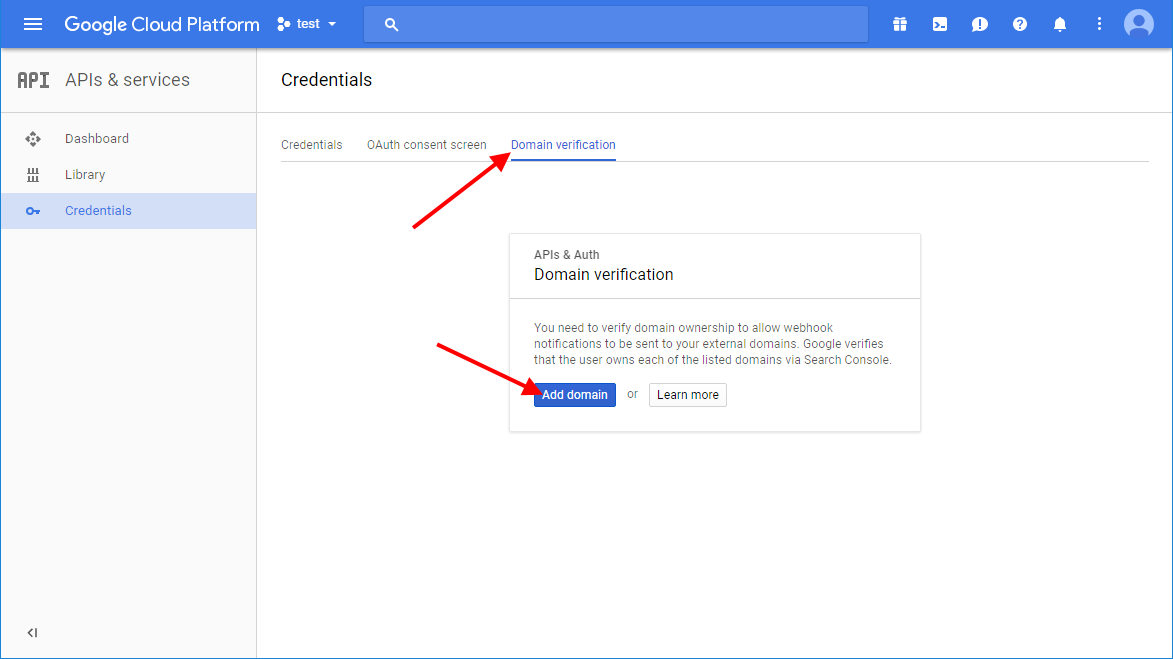
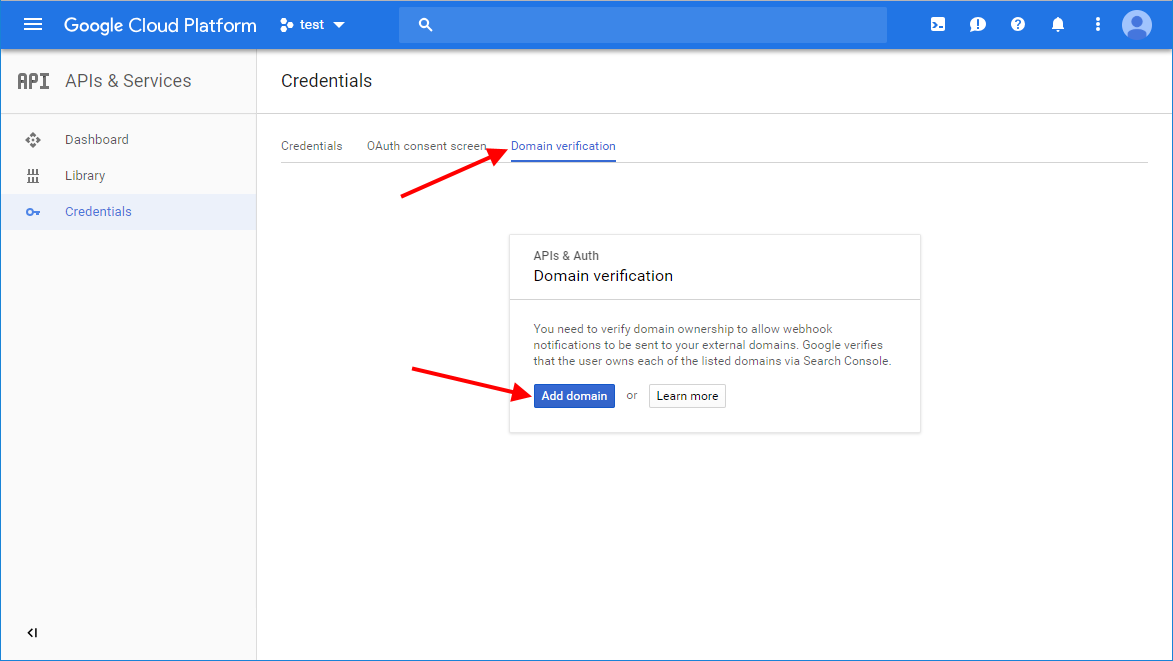
Update Docs with new screenshots of impCentral and Google UI

diff --git a/Examples/README.md b/Examples/README.md
@@ -31,7 +31,7 @@ This example publishes messages to the topic `"test_topic"`.
   - Message data in the form of an integer which starts at 1 and increases by 1 with every message published. It restarts from 1 when the example is restarted.
   - A message attribute, `"measureTime"`, which is the time in seconds since the epoch.
 
-![Publisher example](http://imgur.com/tggTPYg.png)
+![Publisher example](../png/12.png)
 
 ## PullSubscriber
 
@@ -49,7 +49,7 @@ This example receives messages from a pull subscription called `"test_pull_subsc
   - All of the message’s custom attributes
   - The standard `"publishTime"` attribute.
 
-![PullSubscriber example](http://imgur.com/WDQ9lGQ.png)
+![PullSubscriber example](../png/13.png)
 
 ## PushSubscriber
 
@@ -69,7 +69,7 @@ Additional setup is required before you can run this application. See the [Addit
   - all custom attributes of the message,
   - the standard *"publishTime"* attribute.
 
-![PushSubscriber example](http://imgur.com/HjXJrfz.png)
+![PushSubscriber example](../png/14.png)
 
 ## ProjectInfo
 
@@ -80,7 +80,7 @@ This example collects and prints information about topics and subscriptions. The
 - The configuration of every subscription
 - The IAM Policy of every subscription
 
-![ProjectInfo example](http://imgur.com/VDKgV7c.png)
+![ProjectInfo example](../png/15.png)
 
 ## Examples Setup
 
@@ -98,16 +98,17 @@ Before running an example application you need to set the configuration constant
 #### Google Cloud Account Configuration
 
 - Login at [Google Cloud Console](https://console.cloud.google.com) in your web browser.
-- If you have an existing project that you want to work with, skip this step, otherwise click the ‘Select a project’ link and click ‘+’ in the opened window:
-![Project create](http://imgur.com/2FbH9S6.png)
+- If you have an existing project that you want to work with, skip this step, otherwise click the ‘Select a project’ link and click ‘NEW PROJECT’ in the opened window:
+![Project create](../png/1.png)
 Enter a project name and click ‘Create’.
 - Click the ‘Select a project’ link and choose your project.
 Copy your project’s ID &mdash; it will be used as the *PROJECT_ID* constant.
-![Project select](http://imgur.com/PR9U25p.png)
+![Project select](../png/2.png)
+Click ‘OPEN’.
 - In the hamburger menu choose ‘Pub/Sub’:
-![PubSub menu](http://imgur.com/81zNGg1.png)
+![PubSub menu](../png/3.png)
 - Click ‘Enable API’:
-![PubSub enable](http://imgur.com/MS7MnZK.png)
+![PubSub enable](../png/4.png)
 
 #### OAuth 2.0 JWT Profile configuration
 
@@ -116,7 +117,7 @@ Follow the instructions from [JWT Profile for OAuth 2.0](https://github.com/elec
 #### Constants Setup
 
 Set the example code configuration constants (*PROJECT_ID*, *GOOGLE_ISS*, *GOOGLE_SECRET_KEY*) with the values retrieved in the previous steps. You can use the same configuration constants when running examples in parallel.
-![Examples config](../png/4.png)
+![Examples config](../png/5.png)
 
 ### Additional Setup for the PushSubscriber Example
 
@@ -125,27 +126,27 @@ This must be performed **before** you use the example code. You will need to ass
 #### Register the Push Endpoint
 
 - Copy your device’s agent URL from the Electric Imp IDE.
-- Go to the [Google Search Console](https://www.google.com/webmasters/tools), enter your agent URL and click ‘Add a property’:
-![Search console add property](http://imgur.com/ZFpLQHY.png)
-- Download the suggested HTML verification file:
-![Search console download](http://imgur.com/AEe7O69.png)
-- Add the following code to your agent. Make sure you enter the *GOOGLE_SITE_VERIFICATION* value with the downloaded HTML verification file’s contents, and then click ‘Build and Run’.
+- Go to the [Google Search Console](https://www.google.com/webmasters/tools), enter your agent URL and click ‘ADD PROPERTY’:
+![Search console add property](../png/6.png)
+- Download the suggested HTML file:
+![Search console download](../png/7.png)
+- Add the following code to your agent. Make sure you enter the *GOOGLE_SITE_VERIFICATION* value with the downloaded HTML file’s contents, and then click ‘Build and Force Restart’.
 ```squirrel
 const GOOGLE_SITE_VERIFICATION = "...";
 http.onrequest(function (request, response) {
     response.send(200, GOOGLE_SITE_VERIFICATION);
 });
 ```
-![Imp verification code](http://imgur.com/HzSt05P.png)
+![Imp verification code](../png/8.png)
 This verification is needed only once per agent, and you should replace the above code with the example application code. Make sure the above code is not included in your example source code, otherwise messages will not be received.
-- In the [Google Search Console](https://www.google.com/webmasters/tools), click on the link ‘Confirm successful upload by visiting ... in your browser’ and then click ‘Verify’:
-![Search console steps](http://imgur.com/l8z6WvP.png)
-You should receive a success message like “Congratulations, you have successfully verified your ownership of ...”
+- In the [Google Search Console](https://www.google.com/webmasters/tools) click ‘VERIFY’.
+![Search console download](../png/7_2.png)
+You should see “Ownership verified” success message.
 - Go to the [Google Cloud Console](https://console.cloud.google.com).
 - Select your project.
 - In the hamburger menu choose ‘APIs & Services’, then select ‘Credentials’:
-![Credentials](http://imgur.com/ewnRN6i.png)
+![Credentials](../png/9.png)
 - Select ‘Domain verification’ and click ‘Add domain’:
-![Domain verification](http://imgur.com/XfQwV1f.png)
-- Enter your agent URL and click ‘Add domain’:
-![Add domain](http://imgur.com/SmNDmsf.png)
+![Domain verification](../png/10.png)
+- Enter your agent URL and click ‘ADD DOMAIN’:
+![Add domain](../png/11.png)
